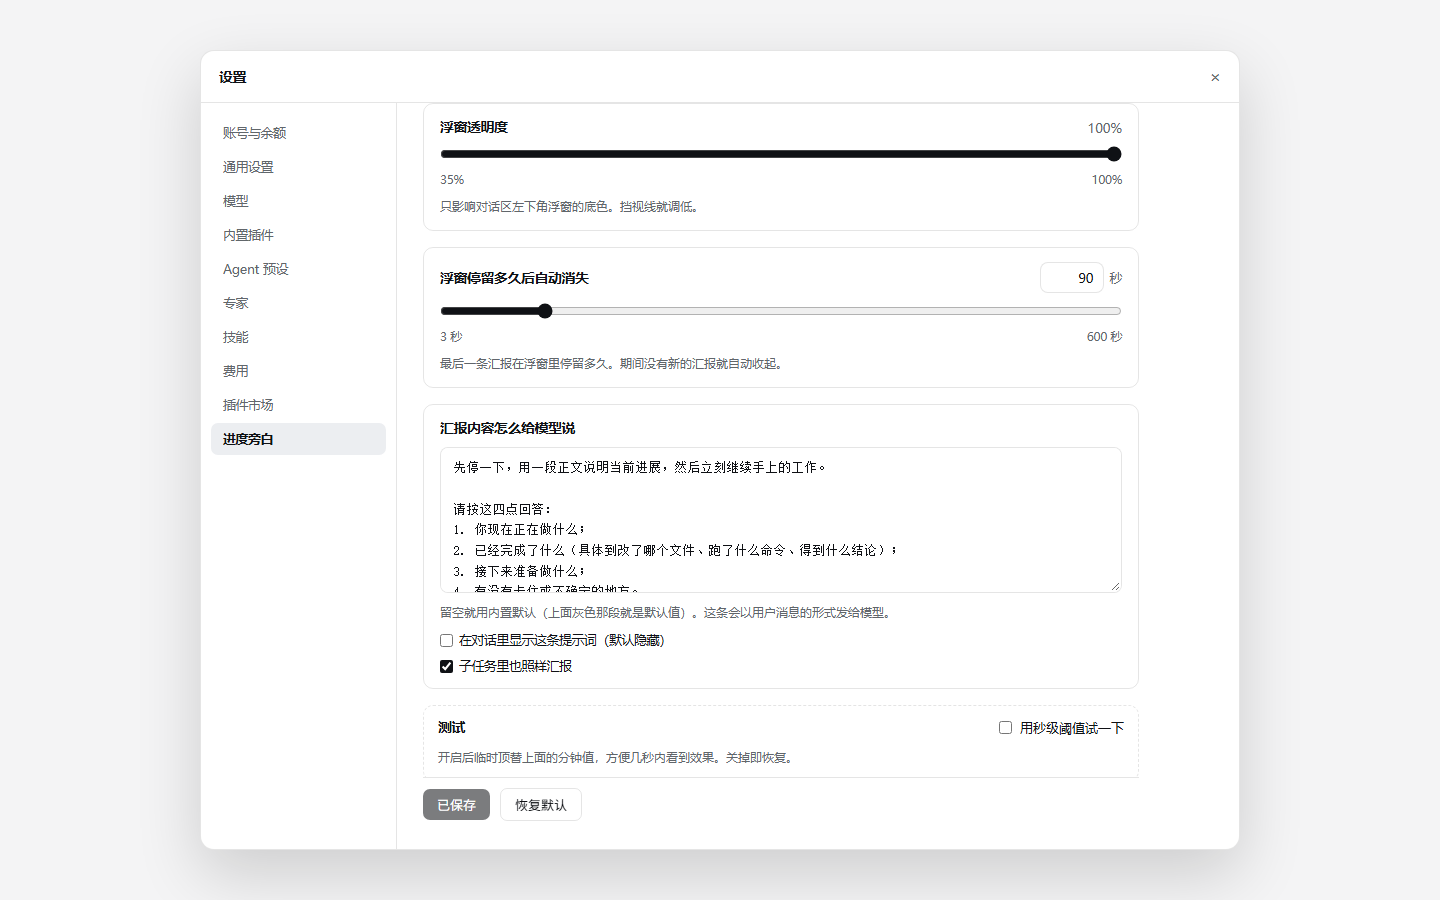
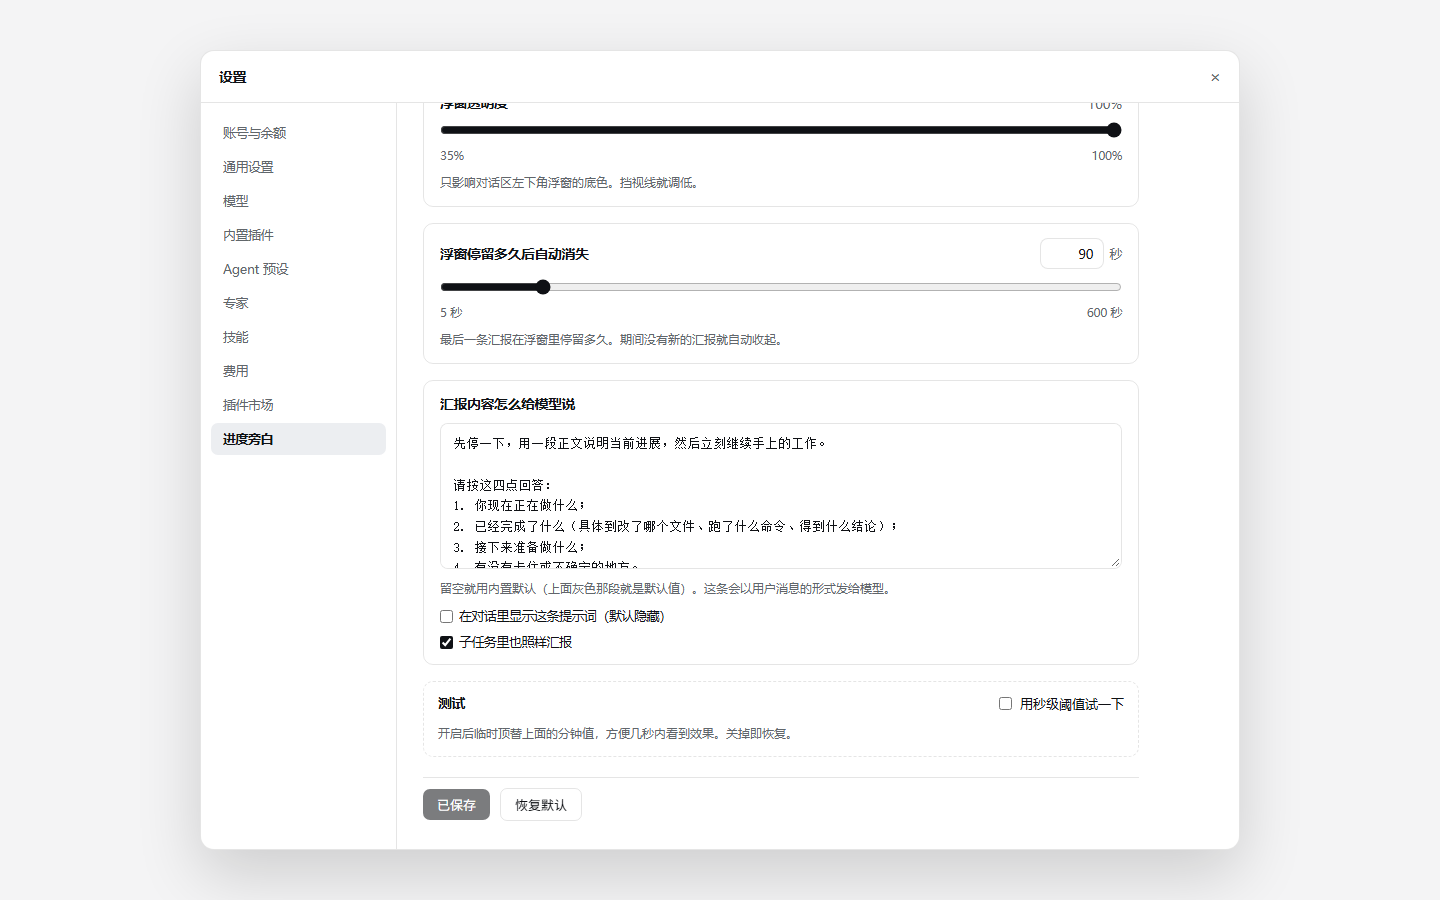
docs: 新增面向普通用户的图文说明，重出四张截图
- 新增 功能介绍.md：给不读源码的人看的八分钟版
- 四张截图全部重出：出图脚本改为从 lib/client.js 与 lib/index.js 的
  DEFAULTS 读常量，不再手抄（旧图印着「3 秒」而代码是 5）
- 修掉两处「切走再切回来会重新出现」，那是 v0.12.3 之前的行为
- 设置卡表格换成界面上的真实控件名
- package.json 的 files 补 assets / 两份中文文档 / screenshots.json

版本号保持 0.12.3 不变。

diff --git a/功能介绍.md b/功能介绍.md
@@ -1,0 +1,135 @@
+# dsh-narrator 功能介绍
+
+> 模型想得太久时，先让它说一句话，然后接着干。
+
+## 一句话
+
+给 DeepSeek Harness 装一个小插件：模型闷头思考太久时，它会自己开口说清「在做什么、做到哪了」，**而任务不会因此停下**。
+
+![模型思考 12 分钟没有任何正文输出时，左下角浮窗显示它刚说清的四点进展](assets/screenshot-1.png)
+
+## 它解决的是什么问题
+
+用 AI 干长活的人大概都遇到过这个场面：你发了任务，屏幕上几十分钟一动不动。你不知道它是在认真研究，还是已经卡死、在空转、在等一个永远不会回来的响应。要么傻等，要么打断重来——两个都不是好选项。
+
+想解决这件事，最直觉的办法是「在提示词里让模型中途说一句进度」，但这条路在 DeepSeek Harness 里**走不通**。它的代理循环有这么一条判断：
+
+```js
+if (turnEnds && decision.messages.length === 0) break;
+```
+
+一条不带工具调用的纯文本消息，会被判定为「回合结束」。也就是说，**模型一旦开口说进度，任务当场就停了。** 这是宿主语义层的规则，不是提示词能绕的小聪明。
+
+## 它是怎么绕过去的
+
+关键在一个字：**等**。
+
+静默超过阈值时，插件什么都不做，只在内存里记一笔「该汇报了」。等模型走到**下一个 step 边界**——也就是它自然停下来准备下一步的那一刻——再从 `agent/pre-step` 这个钩子往请求里多带一条消息。请求里多了一条消息，`decision.messages.length` 就不为 0，回合关不掉，模型于是继续说下去。
+
+```
+模型只思考、不出声
+      │
+      ▼   静默超过阈值（默认 60 秒）
+只记一笔「该汇报了」          ← 界面上什么都还没动
+      │
+      ▼   下一个 step 边界
+注入一段提示词
+      │
+      ▼
+模型用正文说一段
+      │
+      ├─→ 对话区左下角浮窗显示这段原文
+      └─→ 正文继续走，回合不关闭
+```
+
+为什么必须等这个边界：模型往往正卡在两次工具调用中间。这时候硬塞消息，会落在「调用」和「调用结果」之间，宿主直接报错。
+
+## 你会看到什么
+
+### 1. 对话区左下角的小浮窗
+
+模型报完进度，这张卡就贴在正文左下角，显示它刚说的原文。它是**信息补位**，不抢你的主视野，也不挡正文。
+
+![浮窗贴在对话区左下角，显示模型刚说的四点进展](assets/screenshot-1.png)
+
+浮窗分三个阶段，你一眼能看出它现在在干什么：
+
+| 阶段 | 标题 | 说明 |
+|---|---|---|
+| 到点，还没轮到它说 | **还在等** | 等子任务返回时会显示等了多久 |
+| 已经提醒，模型正憋这段话 | **正在整理汇报** | 说明提示词送到了 |
+| 模型开口了 | **正在汇报** | 显示模型的原话 |
+
+**它什么时候走**，三条规则：
+
+- **模型重新开口，浮窗立刻撤。** 它一说话，你就有新东西可看了
+- **叉掉就是叉掉。** 点 `×` 关掉后，切走再切回同一条汇报不会重新弹出来；等下一条新汇报才再出现
+- 平时停 90 秒自动消失（可调）
+
+### 2. 设置卡（设置 → 进度旁白）
+
+![设置卡：阈值、浮窗透明度、停留时长都是滑杆，提示词可整段替换](assets/screenshot-2.png)
+
+全是滑块和开关，没有要你手改配置文件的字段（下面写的是界面上真实的名字）：
+
+| 项目 | 说明 |
+|---|---|
+| **让模型定期汇报** | 总开关 |
+| **多久没有文字输出就让它说一句** | 1~60 分钟，默认 1 分钟。从最后一次正文输出开始算，只思考、只调工具都不算 |
+| **两次汇报至少间隔** | 1~60 分钟，默认 1 分钟。防止刷屏，设得越小汇报越频繁 |
+| **同时把汇报内容弹到对话区左下角浮窗** | 默认开。关掉后仍然会汇报，只是不显示浮窗 |
+| **浮窗透明度** | 35%~100%，默认 100%，只影响浮窗底色 |
+| **浮窗停留多久后自动消失** | 5 秒~600 秒，默认 90 秒 |
+| **汇报内容怎么给模型说** | 想让它从特定角度汇报就改这里；留空用内置四点式 |
+| 在对话里显示这条提示词（默认隐藏） | 默认关。开了对话流里能看到注入的原文 |
+| 子任务里也照样汇报 | 默认关（子代理会话你在界面上看不到） |
+
+底部固定着两个按钮：**保存**（没有改动时显示「已保存」）与**恢复默认**。置灰状态下是「已保存」——说明当前值就是磁盘上的值。
+
+![滚到底时保存与恢复默认贴在卡片下沿，按钮下方底色铺满，不会透出滚过去的文字](assets/screenshot-3.png)
+
+### 3. 想当场看效果
+
+设置卡底部有个「测试」区块，能把阈值临时压到几秒，马上就能看到浮窗长什么样。关掉后恢复真实配置，**真实配置一个字节都不会被改**。
+
+## 建议阈值
+
+实测单步耗时通常在 5~7 秒，偶尔十几秒。所以：
+
+- **想经常看到** → 设 1 分钟
+- **只在明显卡住时提示** → 设 3~5 分钟
+- 上限 60 分钟。设到 30 分钟以上基本不会触发
+
+## 它不做什么
+
+- **不改你的任务。** 注入的只是一条提醒，模型接着干它原来的活，上下文不丢
+- **不额外花钱。** 零运行时依赖，不调用任何外部服务，只在本机跑
+- **不抢你的视线。** 对话流里默认看不到那条注入的提示词，只有浮窗
+- **不上传任何东西。** 配置存在 `~/.dsh/narrator/config.json`，就你本机
+
+## 装与不装的差别
+
+|  | 没装 | 装上 |
+|---|---|---|
+| 模型长时间沉默 | 一片空白，不知道在干什么 | 左下角浮窗说清进展 |
+| 判断是否卡死 | 只能靠猜或打断 | 看浮窗的等待时长和阶段 |
+| 任务连续性 | —— | 汇报不打断任务 |
+
+## 已知限制
+
+1. **注入不是硬保证。** 机制保证回合不关闭，但如果模型自己写完就停下，那还是会停。默认提示词末尾那两句「说完必须继续执行，不要结束任务」就是在防这个
+2. **注入有延迟。** 到点只是记账，真正注入要等下一个 step 边界。那一 step 如果在等子智能体，可能要多等几分钟——这期间浮窗显示「还在等」，所以不会看起来像卡死
+3. **只支持 web 端**
+4. **子代理的汇报默认关闭。** 那些会话界面上看不到，注入属于浪费一次模型调用
+
+## 怎么装
+
+见同目录的 [安装与功能说明.md](安装与功能说明.md)，五分钟能装完。简要三步：
+
+1. 把整个 `dsh-narrator` 目录拷进 `<profile>/node_modules/`
+2. 在该 profile 的 `package.json` 里，`dependencies` 和 `dsh.profile.bundles` **两处**都登记
+3. 重启 DSH，打开 **设置 → 进度旁白**
+
+---
+
+MIT 许可。源码与完整技术文档见 [README.md](README.md)。

diff --git a/安装与功能说明.md b/安装与功能说明.md
@@ -103,7 +103,17 @@ if (turnEnds && this.inbox.nextStep.length === 0) break;
 | 已注入，模型在憋那段话 | **正在整理汇报** | 同上，等待行换成「模型正在整理这次汇报」 |
 | 模型开口了 | **正在汇报** | 模型的原话，替换掉整张卡 |
 
-停 `lingerSeconds`（默认 90 秒，可设 5 秒~10 分钟）后自动消失，也可以点右上角 `×` 立刻关。按会话隔离，切走再切回来会重新出现。
+停 `lingerSeconds`（默认 90 秒，可设 5 秒~600 秒）后自动消失，也可以点右上角 `×` 立刻关。按会话隔离，不会串到别的会话。
+
+### 浮窗什么时候走
+
+出现容易，消失的语义反而更难定。三条规则：
+
+1. **模型重新开口，浮窗立刻撤。** 浮窗是「模型长期不出声」时的信息补位；它一开口，你就有新东西可看。判据来自服务端的 `assistant-stream` 事件流（`text-delta` 上的时间戳），不靠 DOM——虚拟滚动、代码高亮、折叠面板都会让 DOM 乱动。
+2. **汇报原文本身不算「新正文」。** 写浮窗记录时把「当时的最后一次正文时刻」冻结进记录（`textAt` 字段），前端比的是「记录之后又说过话没有」。所以不会出现「模型刚写完汇报，浮窗一闪就消失」。
+3. **叉掉就是叉掉。** 关闭状态按「哪一条汇报」记：切走再切回同一条汇报不再弹出，等下一条新汇报才重新出现，不会变成永久失聪。子代理的输出也进不了这个判据——等子任务那几分钟恰恰最需要这张卡。
+
+> ⚠ 第 1 条的判据在服务端，所以**升级到 v0.12.3 之后必须重启 DSH 进程**（只刷新页面不够）才会生效。没重启时前端会回落到 `at` 兜底，功能不坏，但对「模型中途说了句话」不如新版敏感。
 
 ## 三、安装
 
@@ -120,14 +130,16 @@ if (turnEnds && this.inbox.nextStep.length === 0) break;
 ```
 D:\tools\dsh-narrator\
   ├── lib/
-  │   ├── index.js          后端（约 96 KB）
-  │   ├── client.js         前端设置卡与浮窗（约 61 KB）
+  │   ├── index.js          后端（约 64 KB）
+  │   ├── client.js         前端设置卡与浮窗（约 71 KB）
   │   └── config-store.js   配置读写
   ├── package.json
   ├── cordis.patch.yml
   ├── README.md             完整技术文档
+  ├── 安装与功能说明.md      就是你正在读的这份
   ├── LICENSE
-  ├── test/                 测试与取证脚本
+  ├── assets/               四张截图
+  ├── test/                 测试与取证脚本（跑测试用，不装也能跑）
   └── notes/                开发笔记（宿主 CSS 变量清单等）
 ```
 
@@ -187,15 +199,15 @@ curl http://127.0.0.1:<端口>/api/narrator/status
 
 | 项目 | 说明 |
 |---|---|
-| 启用进度旁白 | 总开关 |
-| 多久没有文字输出就汇报一次 | 1~60 分钟，线性滑杆或直接填数字 |
-| 两次汇报之间至少间隔 | 防止过于频繁 |
+| 让模型定期汇报 | 总开关 |
+| 多久没有文字输出就让它说一句 | 1~60 分钟，线性滑杆或直接填数字。从最后一次正文输出开始算 |
+| 两次汇报至少间隔 | 防止刷屏，设得越小汇报越频繁 |
+| 同时把汇报内容弹到对话区左下角浮窗 | 关掉后仍然注入，只是不显示浮窗 |
+| 浮窗透明度 | 35%~100%，只影响浮窗底色 |
+| 浮窗停留多久后自动消失 | 5 秒~600 秒，默认 90 秒 |
 | 汇报内容怎么给模型说 | 多行文本框，留空用内置默认（四点式） |
 | 在对话里显示这条提示词 | 默认关。开了之后对话流里能看到注入原文 |
 | 子任务里也照样汇报 | 默认**关**。子代理会话界面上看不到，注入纯属浪费一次调用 |
-| 同时弹出对话区左下角浮窗 | 关掉后仍然注入，只是不显示浮窗 |
-| 浮窗透明度 | 0.35~1，只影响浮窗底色 |
-| 浮窗停留多久后自动消失 | 5 秒~10 分钟，默认 90 秒 |
 
 保存和「恢复默认」固定在卡片下沿，滚到哪里都点得到。点「保存」立即生效，**不用重启**。改动存在 `~/.dsh/narrator/config.json`。底栏下方还会多涂一截底色——宿主的滚动容器在滚动区里留了 24px 内边距，只贴下沿的话滚过去的文字会从按钮底下露出来。
 
@@ -215,9 +227,11 @@ curl http://127.0.0.1:<端口>/api/narrator/status
 
 ### 浮窗行为
 
-- 只出现在**触发的那个会话**里，切到别的会话不会串台；切走再切回来会重新出现
+- 只出现在**触发的那个会话**里，切到别的会话不会串台
 - 三个阶段的标题分别是「还在等」「正在整理汇报」「正在汇报」，见第二节
-- 停留 `lingerSeconds` 后自动消失，右上角 `×` 可以立刻关
+- **模型重新开口，浮窗立刻撤。** 它是「模型长期不出声」时的信息补位；模型一说话，你就有新东西可看。汇报原文本身不算「新正文」，所以不会刚亮就消失
+- **叉掉之后不粘人。** 点 `×` 关掉后，切走再切回同一条汇报不会重新弹出，等下一条新汇报才再出现
+- 停留 `lingerSeconds` 后自动消失
 - 跟随侧边栏拖拽实时重排位置
 - 自动适配浅色/深色主题
 

diff --git a/README.md b/README.md
@@ -58,6 +58,8 @@ if (turnEnds && this.inbox.nextStep.length === 0) break;
 
 前置：DeepSeek Harness **0.2.1+**（`dsh.client` 与 `shell.overlay` 槽位依赖它）、Node.js **18+**。零运行时依赖，不需要 `npm install`。
 
+> 面向普通用户的图文版说明见 [安装与功能说明.md](安装与功能说明.md)（安装 + 配置 + 排错）和 [功能介绍.md](功能介绍.md)（不读源码也能看懂它解决什么问题）。下面这段是给开发者的速览。
+
 **1. 拷贝到 profile 的 `node_modules`**
 
 ```bash
@@ -109,14 +111,14 @@ curl http://127.0.0.1:<端口>/api/narrator/status
 | 项目 | 默认 | 说明 |
 |---|---|---|
 | 让模型定期汇报 | 开 | 总开关 |
-| 多久没有文字输出就让它说一句 | 60 秒 | 1~60 分钟，线性滑杆或直接填数字 |
-| 两次汇报至少间隔 | 60 秒 | 防止刷屏 |
+| 多久没有文字输出就让它说一句 | 1 分钟 | 1~60 分钟，线性滑杆或直接填数字 |
+| 两次汇报至少间隔 | 1 分钟 | 防止刷屏。设得越小越频繁 |
 | 汇报内容怎么给模型说 | 内置四点式 | 可整段替换；留空即用默认 |
 | 在对话里显示这条提示词 | 关 | 开了之后 `source.kind` 换成 `user`，对话流里能看到注入原文 |
 | 同时把汇报内容弹到对话区左下角浮窗 | 开 | 关掉后仍然注入，只是不显示浮窗 |
 | 子任务里也照样汇报 | **关** | 子代理会话界面上看不到，注入纯属浪费一次模型调用 |
-| 浮窗透明度 | 1 | 0.35~1，只影响浮窗底色 |
-| 浮窗停留多久后自动消失 | 90 秒 | 5 秒~10 分钟 |
+| 浮窗透明度 | 100% | 35%~100%，只影响浮窗底色 |
+| 浮窗停留多久后自动消失 | 90 秒 | 5 秒~600 秒 |
 
 保存和「恢复默认」固定在卡片下沿（`position: sticky`），滚到哪里都点得到。底栏还向下多涂了一截底色：宿主的滚动容器自己在滚动区里留了 24px 内边距，光靠 `bottom: 0` 盖不住那一段，滚过去的文字会从按钮底下露出来。
 
@@ -211,6 +213,16 @@ bottom ← overlayLayer 底边 − [data-composer-seat] 顶边 + 16px
 
 - **上一段原文必须留着。** 早期实现到点后直接写一条 `text: ''` 的新记录，结果是模型刚汇报完、静默重新起算，到点那张卡「啪」地变成空白——用户眼前的信息反而变少了。现在只翻开 `pending` 标记，原文原地保留。
 - **`phase` 不能被降级。** 模型已经拿到「请汇报」的提示、正憋那段话时，这段静默恰恰是它在整理汇报，界面该说「正在整理汇报」；无条件写回 `working` 会让用户以为提示词没送到。
+
+### 浮窗什么时候走
+
+出现容易，消失的语义反而更难定。三条规则：
+
+1. **模型重新开口，浮窗立刻撤。** 浮窗是「模型长期不出声」时的信息补位；它一开口，你就有新东西可看。判据来自服务端的 `assistant-stream` 事件流（`text-delta` 上的时间戳），不靠 DOM——虚拟滚动、代码高亮、折叠面板都会让 DOM 乱动。
+2. **汇报原文本身不算「新正文」。** 写浮窗记录时会把「当时的最后一次正文时刻」冻结进记录（`textAt` 字段），前端比的是「记录之后又说过话没有」。所以不会出现「模型刚写完汇报，浮窗一闪就消失」。
+3. **叉掉就是叉掉。** 关闭状态按「哪一条汇报」记（记录的 `at`）：切走再切回同一条汇报不再弹出，等下一条新汇报才重新出现，不会变成永久失聪。子代理的输出也进不了这个判据——等子任务那几分钟恰恰最需要这张卡。
+
+第 1 条的判据在服务端，所以**升级到 v0.12.3 后必须重启 DSH 进程**（不只是刷新页面）才会生效。前端会回落到 `at` 兜底，功能不坏，但对「模型中途说了句话」不如新版敏感。
 
 ### 运行期自检
 
